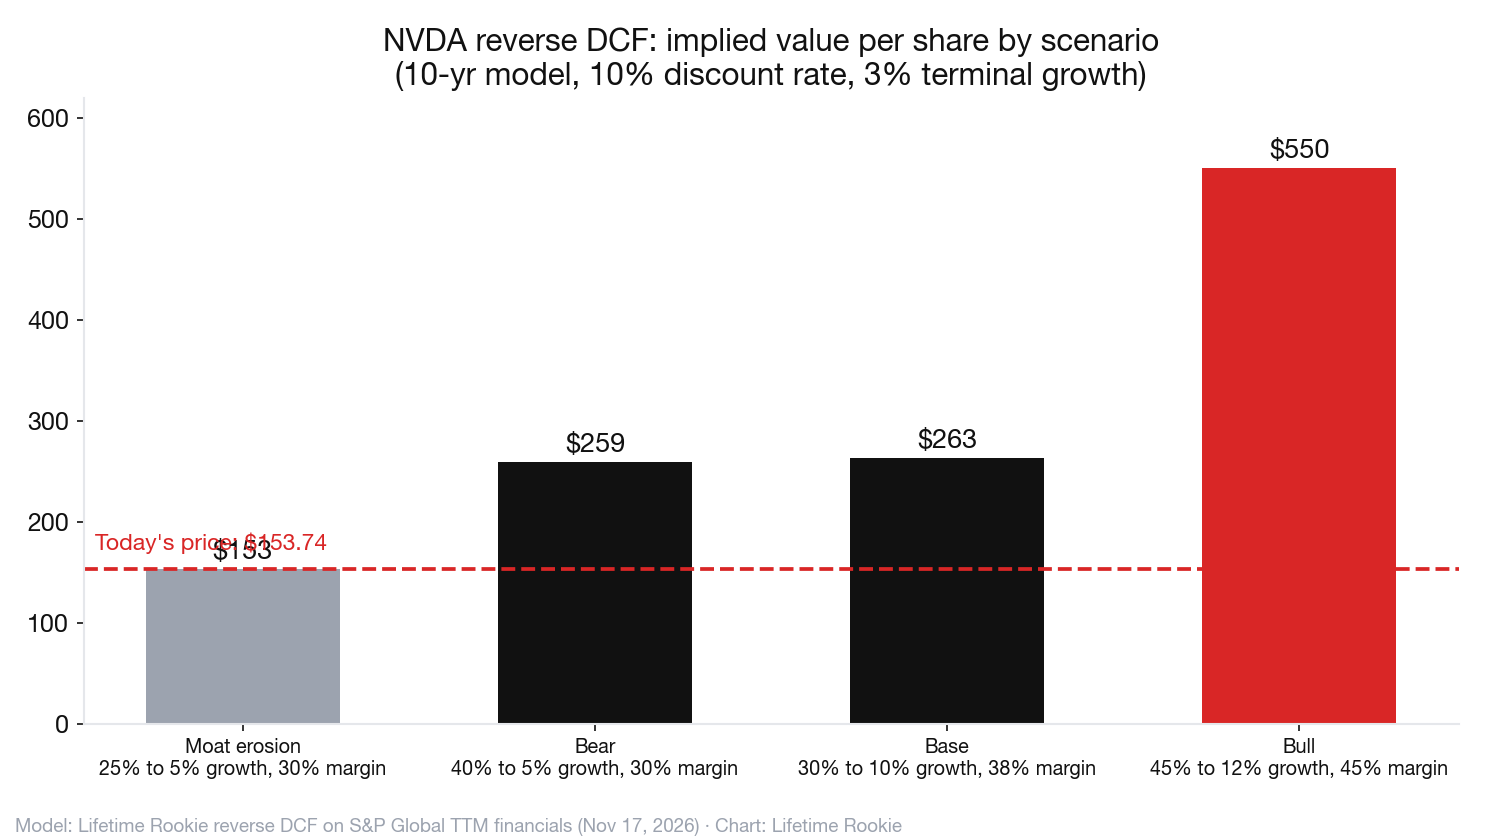
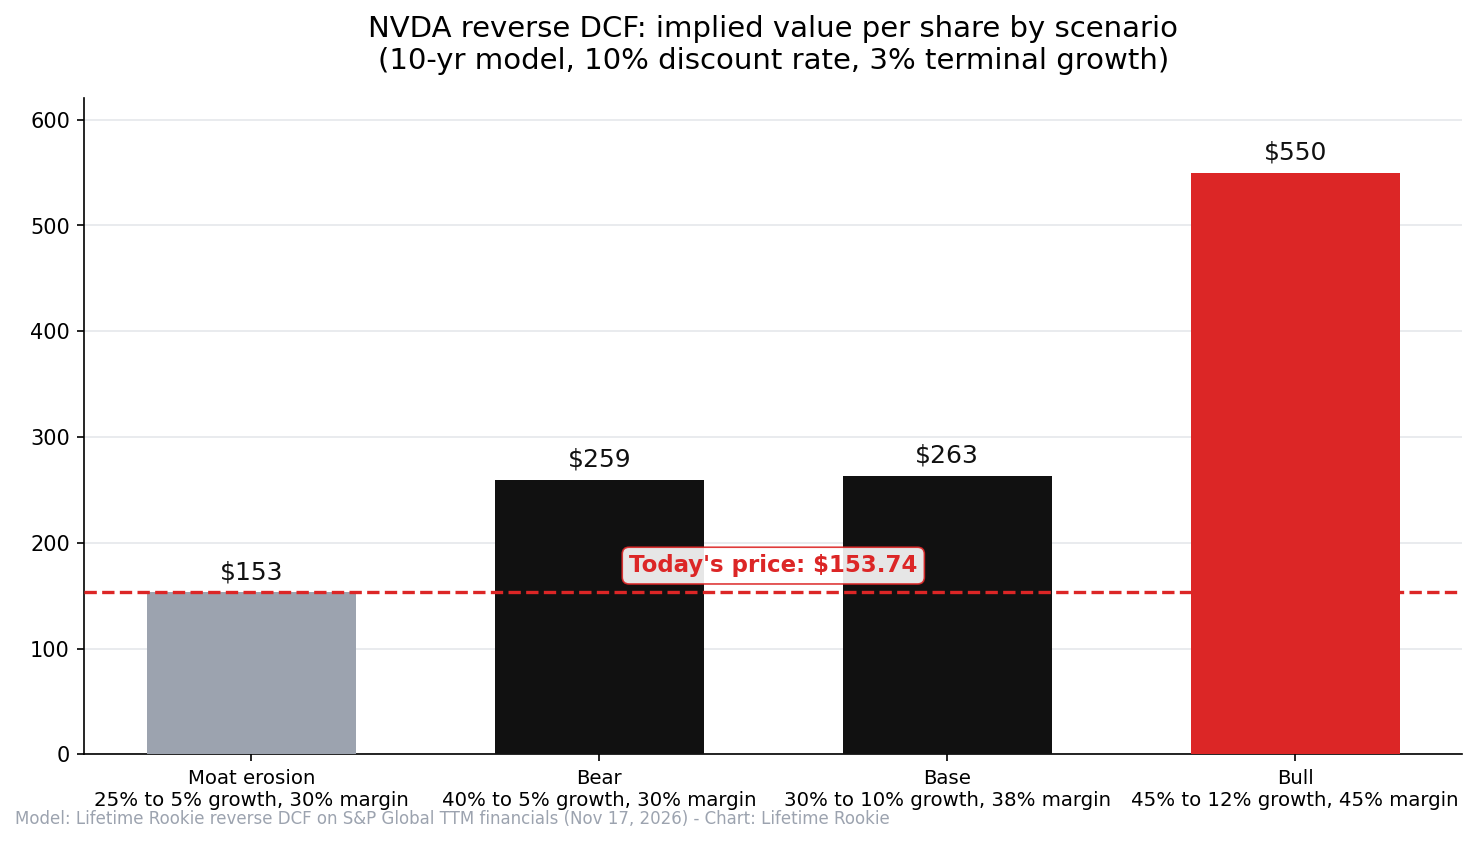
Publish: NVDA post-earnings update + AI selloff financing loop

diff --git a/src/content/money/nvda-after-jensen.md b/src/content/money/nvda-after-jensen.md
@@ -1,10 +1,10 @@
 ---
 title: 'When the King Leaves the Castle: $NVDA After Jensen'
-description: 'Jensen Huang resigned as NVIDIA CEO on November 11, 2026. The chips are still king and CUDA is still the moat — but the Jensen premium is gone. A look at what changes, what doesn''t, and a reverse DCF that says the market already fired him.'
+description: 'NVIDIA doubled revenue and started shipping Vera Rubin as it navigates life after Jensen Huang. What the Q3 FY27 results show about the business, what they don''t tell us about succession, and how I thought about the pre-earnings price.'
 pubDate: 'Nov 17 2026'
 ---
 
-Jensen Huang resigned as NVIDIA's CEO on November 11, 2026, and the stock is hovering near its 52-week low of $148.80 heading into tonight's Q3 earnings. My take up front: NVIDIA absolutely survives this. CUDA is still king, the chips are still king. But the "Jensen premium" — the extra multiple the market paid for the man's market-making and aura — is gone, and it's not coming back under an interim CFO.
+Jensen Huang resigned as NVIDIA's CEO on November 11, 2026, and the stock went into tonight's Q3 report near its 52-week low of $148.80. The report just landed — revenue up 103%, guidance well above consensus — and the stock is up about 3% after hours. My take up front: NVIDIA absolutely survives this. CUDA is still the moat, the chips still lead. But the "Jensen premium" — the extra multiple the market paid for the man's market-making and aura — is gone, and it's not coming back under an interim CEO.
 
 One ground rule before we start: I'm not litigating whether he should have stayed or whether the board was right. This post is about the facts and how to think about $NVDA from here.
 
@@ -16,8 +16,22 @@ The timeline, quickly:
 - **The context:** per AP, the New York Times, and others, the resignation followed revelations of extramarital affairs, including one with a woman linked to Chinese intelligence — a national-security-grade problem for the company at the center of US export controls. A board investigation is ongoing.
 - **Interim CEO:** Colette Kress, NVIDIA's CFO since September 2013 (ex-Cisco, ex-Microsoft), takes over while keeping the CFO job. Harvey C. Jones — on the board since 1993 and former Synopsys CEO — becomes NVIDIA's first-ever Chair of the Board.
 - **The succession race:** the board hired Heidrick & Struggles and is looking at internal and external candidates; names floated include NVIDIA's Ian Buck and Arm CEO Rene Haas (WSJ).
-- **The twist, today:** this morning Jensen released his first statement since resigning — he'd be "honored" to return as CEO if the board decides it's in the company's best interest, adding "I own my mistakes completely" and citing an outpouring of support from employees. The board is reportedly not discussing it (WSJ/Bloomberg/CNBC).
-- **And tonight:** NVIDIA reports Q3 FY27 after the close, with consensus around $2.48 EPS (+90% YoY) on roughly +91% revenue. Normal times.
+- **The twist, today:** this morning Jensen released his first statement since resigning — he'd be "honored" to return as CEO if the board decides it's in the company's best interest, adding "I own my mistakes completely" and citing an outpouring of support from employees. The board is reportedly not discussing it (WSJ/Bloomberg/CNBC) — and on tonight's earnings call, the chairman said outright that the board has no intention of reinstating him.
+- **And tonight:** NVIDIA reported Q3 FY27 — the first print under an interim CEO. The numbers are below.
+
+## What the numbers show — and what they don't
+
+The business did not get the memo. Q3 FY27, NVIDIA's first print under an interim CEO:
+
+- **Revenue: $115.8B, up 103% year over year**, versus roughly $109B of consensus. Adjusted EPS of $2.68 beat the $2.47 street by 8%.
+- **Data Center: $107.6B, up 110%** year over year and 21% quarter over quarter.
+- **Guidance: $130B ± 3% for Q4** — roughly another doubling at the midpoint, comfortably above the ~$125B consensus — and it assumes **zero data-center compute revenue from China**. The full-year FY28 outlook was raised from +70% growth to +75%.
+- **Vera Rubin is shipping.** The architecture the whole buildout has been waiting on is ramping, per management.
+- **The backlog got bigger, not smaller:** the cloud-industry backlog now sits at **$2.5T, up from $2T three months ago**. NVIDIA's own supply commitments rose to **$390B, from $279B** last quarter, and its neocloud agreements now total **$32B**.
+
+One nuance worth flagging, because it cuts against a story I told above: I said the checkbook closes without Jensen — but supply commitments (NVIDIA pre-buying wafers, memory, and capacity *for itself*) went up 40% in a quarter. That's not customer financing; it's a confidence signal. Kress can refuse to underwrite other people's GPUs while still prepaying for her own.
+
+And what the numbers don't tell us: anything about succession. A blowout quarter is backward-looking validation of the machine Jensen built. It says nothing about who runs it next, whether his loyalists stay, or how long an interim CEO-who-is-also-CFO can keep making the handshake deals that never show up on an income statement. Mid-print, the WSJ reported the SEC has opened a civil probe into whether NVIDIA's disclosures misled investors — the Singapore compliance question just got a regulator attached to it.
 
 ## What Jensen actually was
 
@@ -43,13 +57,13 @@ The strategy shift is already visible:
 - **CUDA is still the moat.** The software lock-in that took a decade to build doesn't unwind because the CEO resigned.
 - **The chips still lead.** The data-center roadmap ships regardless of who's at the podium.
 - **The financial engine is absurd.** 74.7% gross margins, $127B of free cash flow (a 41.9% margin) over the trailing twelve months, $23.6B of net cash (S&P Global). Balance sheets don't have scandals.
-- **Demand is still demand.** Tonight's consensus numbers (+90% EPS, +91% revenue) would be career-best prints for almost any other company on Earth.
+- **Demand is still demand.** The quarter that just landed — +103% revenue, an 8% EPS beat, guidance to another near-doubling — would be a career-best print for almost any other company on Earth. The machines didn't notice who was at the podium.
 
 ## The reverse DCF: the Jensen discount is already in the price
 
 Here's my favorite part. Setup: at $153.74 and 24.15B shares, NVIDIA is a $3.71T market cap; less $23.6B of net cash, call it $3.69T of enterprise value. Base year is the trailing twelve months: $303B of revenue at a 41.9% FCF margin. Ten-year model, 10% discount rate, 3% terminal growth:
 
-| Scenario | 10-yr revenue path | FY36 FCF margin | Implied per share | vs. $153.74 today |
+| Scenario | 10-yr revenue path | FY36 FCF margin | Implied per share | vs. $153.74 pre-print |
 |---|---|---|---|---|
 | **Moat erosion** | 25% decaying to 5% | 30% | ~$153 | ~0% |
 | **Bear** | 40% decaying to 5% | 30% | ~$259 | +69% |
@@ -59,14 +73,14 @@ Here's my favorite part. Setup: at $153.74 and 24.15B shares, NVIDIA is a $3.71T
 
 ![NVDA reverse DCF: implied value per share by scenario](/images/nvda-reverse-dcf.png)
 
-Read that table twice. The market-implied path is ~13% revenue growth for a decade — for a company that just grew 83%. My explicit *moat-erosion* scenario (growth decaying to 5%, margins compressing 12 points) prices the stock at **exactly today's price**. In other words, the market has already fired Jensen. Current pricing assumes the moat crumbles and the AI buildout limps. If you believe either CUDA holds or the buildout continues at even half speed, you're being paid to take the other side. That's not a valuation opinion — it's what the math is doing.
+Read that table twice. The market-implied path is ~13% revenue growth for a decade — for a company that just printed +103% and guided next quarter to roughly another doubling. (This is the pre-earnings analysis, built on the $153.74 the stock took into the print; tonight's ~3% after-hours move doesn't change the shape of the math.) My explicit *moat-erosion* scenario (growth decaying to 5%, margins compressing 12 points) prices the stock at **exactly the pre-earnings price**. In other words, the market has already fired Jensen. Current pricing assumes the moat crumbles and the AI buildout limps. If you believe either CUDA holds or the buildout continues at even half speed, you're being paid to take the other side. That's not a valuation opinion — it's what the math is doing.
 
 ## Bottom line
 
-NVIDIA without Jensen is still NVIDIA: CUDA, the chips, the margins, the demand. What it's not anymore is *Jensen's* NVIDIA — the market-maker premium is gone, and the reverse DCF says the price already reflects that. My three tells from here: who gets the permanent chair (a visionary vs. an operator sets the next decade), whether the checkbook actually stays closed, and whether Jensen loyalists start showing up in Meta/Amazon/Google org charts. Watch those, and you'll know which scenario you're in before the model does.
+NVIDIA without Jensen is still NVIDIA: CUDA, the chips, the margins, the demand — tonight's print just made that case for me. What it's not anymore is *Jensen's* NVIDIA — the market-maker premium is gone, and the reverse DCF says the price already reflects that. My three tells from here: who gets the permanent CEO job (a visionary vs. an operator sets the next decade), whether the checkbook actually stays closed — tonight's $390B of supply commitments says it hasn't fully — and whether Jensen loyalists start showing up in Meta/Amazon/Google org charts. Watch those, and you'll know which scenario you're in before the model does.
 
 *NOT INVESTMENT ADVICE. THIS IS PURELY FOR ENTERTAINMENT AND MY OWN EDUCATION. DO YOUR OWN HOMEWORK.*
 
 ---
 
-**Sources:** SEC Form 8-K (NVIDIA, filed November 12, 2026) — resignation and appointments. AP, TechCrunch, The Guardian, NPR, CNBC, NYT (November 12-17, 2026) — resignation context and interim leadership. WSJ via Semi-Doped newsletter (November 2026) — venture deal counts, cloud service agreements, supply/capacity commitments, Kress financing pullback, GTC Berlin remarks. Semi-Doped — UBS/Arcuri $50B estimate, QTS debt sale. Bloomberg/WSJ/CNBC (November 17, 2026) — Huang's return statement. Financial Times — Singapore subsidiary revenue. S&P Global Market Intelligence via StockAnalysis (November 17, 2026) — market and TTM financial data. Reverse DCF and charts are my own.
+**Sources:** SEC Form 8-K (NVIDIA, filed November 12, 2026) — resignation and appointments. AP, TechCrunch, The Guardian, NPR, CNBC, NYT (November 12-17, 2026) — resignation context and interim leadership. WSJ via Semi-Doped newsletter (November 2026) — venture deal counts, cloud service agreements, supply/capacity commitments, Kress financing pullback, GTC Berlin remarks. Semi-Doped — UBS/Arcuri $50B estimate, QTS debt sale. Bloomberg/WSJ/CNBC (November 17, 2026) — Huang's return statement. NVIDIA Q3 FY27 earnings release, prepared remarks, and earnings call (November 17, 2026) — results, guidance, backlog, supply commitments, and the chairman's reinstatement comment; results and reaction via TheFly, StockAnalysis, Reuters, Invezz. WSJ via TechCrunch (November 17, 2026) — SEC civil probe. Financial Times — Singapore subsidiary revenue. S&P Global Market Intelligence via StockAnalysis (November 17, 2026) — market and TTM financial data. Reverse DCF and charts are my own.

diff --git a/src/content/money/ai-semiconductor-selloff.md b/src/content/money/ai-semiconductor-selloff.md
@@ -1,12 +1,12 @@
 ---
-title: 'AI''s Bad Hair Day: Is the Selloff the End of the Party or Just a Bad Haircut?'
-description: 'The Nasdaq just had its worst dollar day ever while AI capex keeps setting records. Sorting the AI bottleneck and semiconductor selloff: what broke, what didn''t, and whether this is 2000 all over again.'
+title: 'The Canary in the Coal Mine: Is the AI Selloff the First Domino to Fall?'
+description: 'The Nasdaq just had its worst dollar day ever while AI capex keeps setting records. The disconnect between what AI companies are doing and what the market is pricing — and whether this selloff is the canary in the coal mine.'
 pubDate: 'Nov 17 2026'
 ---
 
-Thursday, November 5 was brutal — $2.49 trillion evaporated from the Nasdaq, its largest one-day dollar loss ever, while the VIX spiked 70%, the third-biggest one-day jump on record (per Charlie Bilello's *The Week in Charts*, 11/10/26). The S&P 500 slid 4.4% and the Nasdaq dropped 5.5%. Since then, everyone's asking the same question: has the AI boom hit a wall, or is this the dip you're supposed to buy?
+Thursday, November 5 was brutal — $2.49 trillion evaporated from the Nasdaq, its largest one-day dollar loss ever, while the VIX spiked 70%, the third-biggest one-day jump on record (per Charlie Bilello's *The Week in Charts*, 11/10/26). The S&P 500 slid 4.4% and the Nasdaq dropped 5.5%.
 
-My honest answer is at the bottom. Here's how I'm thinking through it.
+So which is it: the canary in the coal mine — the first domino falling on the AI trade — or the dip you're supposed to endure? My honest answer is at the bottom. Here's how I'm thinking through it.
 
 ## What just happened
 
@@ -31,6 +31,14 @@ Here's the weird part: the spending hasn't slowed. At all.
 My take hasn't changed: AI is the biggest technology shift of my lifetime, the spend is still scaling, and the buildout is still getting done. The bottlenecks — GPUs, memory, power — are real and will persist for at least a few more years. The companies building capacity aren't acting like the party's over.
 
 But the market is clearly saying something else: it no longer believes this spend has a guaranteed ROI. Both things can be true at once. That's what makes this moment so strange.
+
+## The financing loop: NVIDIA is on both sides of the sale
+
+NVIDIA isn't just selling the shovels. It's also helping finance the people digging. In the simplest version of [circular financing](https://en.wikipedia.org/wiki/AI_build-out_financing#Circular_financing), NVIDIA invests in a model lab or backs a cloud provider's capacity; the lab signs a multiyear compute deal; and the cloud provider installs more NVIDIA gear to serve it. Take [Anthropic and Azure](https://blogs.microsoft.com/blog/2025/11/18/microsoft-nvidia-and-anthropic-announce-strategic-partnerships/): NVIDIA and Microsoft announced plans to invest up to **$10B and $5B**, respectively, in Anthropic, which in turn committed to buy **$30B of Azure compute**, with an initial capacity commitment of up to one gigawatt on NVIDIA systems. [OpenAI announced $30B of investment from NVIDIA](https://openai.com/index/scaling-ai-for-everyone/) alongside plans to use **5 GW** of Vera Rubin capacity for training and inference. And CoreWeave buys NVIDIA chips to rent them out, while NVIDIA is both a shareholder and the buyer of last resort for qualifying unsold capacity under an [initial $6.3B order](https://en.wikipedia.org/wiki/AI_build-out_financing#Allegations_of_channel_stuffing_and_idle_chips). Those are different arrangements — equity, compute purchases, a capacity backstop — not three interchangeable buckets of cash. But they do the same thing for the buildout: help turn future AI demand into hardware orders today.
+
+![Two examples of NVIDIA's financing relationships: NVIDIA and Microsoft pledged investments in Anthropic, which committed to buy Azure compute powered by NVIDIA systems. NVIDIA also took an equity stake in CoreWeave and agreed to buy qualifying unsold capacity, while CoreWeave buys NVIDIA GPUs.](/images/ai-financing-loop.svg)
+
+The risk is that the loop works in reverse, too. NVIDIA doesn't have to miss an earnings print for that to happen. If it stops making new commitments, a neocloud that was counting on a backstop may have to pay more to borrow, bring in a stronger tenant, or put the next cluster on hold. A delayed GPU ramp can push rental revenue out while lease and financing costs keep running. And if lenders start marking down the GPUs that secure some of these loans, the next project gets harder to finance even if the last one is still running. Fewer funded projects mean fewer chip orders; a weaker customer can hit NVIDIA twice, as both a supplier and an investor. The biggest hyperscalers don't suddenly stop spending because NVIDIA blinks. It's the marginal project — the one that only pencils out with cheap debt, a backstop, and full racks — that breaks first. The question I keep coming back to: **how much of this capacity would still get built without the vendor helping underwrite it?**
 
 ## The voters said no
 
